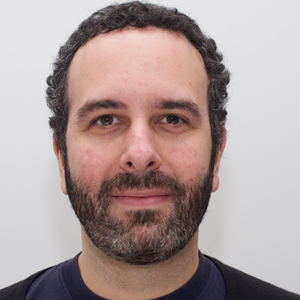
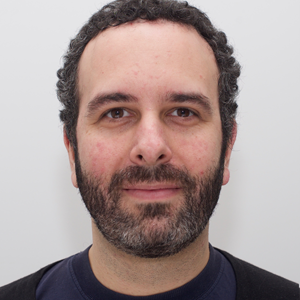
Change photo and bio

diff --git a/index.html b/index.html
@@ -50,10 +50,15 @@
 					<section id="intro" class="wrapper style1 fullscreen fade-up">
 						<div class="inner">
 							<h1>Michael Newton, Web Developer</h1>
-
-							<p>Web developer with a background in visual design. Experienced in JavaScript, React/Redux, Ruby, Rails, HTML5, CSS3, and SQL. I love the logical challenges of coding, and the satisfaction of seeing a great project come together.</p>
-
-							<ul class="actions">
+							<div style="display:flex">
+								<div style="margin-right:18px; margin-top:4px;">
+								<img src="images/Aa-MN-smaller.png" alt="MN" data-position="left top" style="width:100px;border-radius:50%;margin-left:10px; display:inline;"/>
+							</div>
+							<div>
+							<p>Brooklyn-based web developer, experienced in JavaScript, React/Redux, Ruby, Rails, HTML5, CSS3, and SQL. I have a background in visual/graphic design, and I like to approach projects with both core functionality and aesthetic relationships in mind. I'm excited about the vast creative potential of the internet. I love the logical challenges of coding, and the satisfaction of seeing a great project come together.</p>
+						</div>
+							</div>
+							<ul class="actions" style="margin-left:120px;">
 								<li><a href="#one" class="button scrolly">Projects</a></li>
 								<li><a href="assets/docs/MN-Resume-May2017-Aa-pdf.pdf" class="button scrolly" target="_blank">Resume</a></li>
 								<li><a href="mailto:mn@one-timepad.com" class="button scrolly">Email</a></li>
@@ -187,7 +192,7 @@
 					<section id="three" class="wrapper style1 fade-up">
 						<div class="inner">
 							<h2>Contact</h2>
-							<img src="images/Aa-MN-smaller.png" alt="Message" data-position="left top" style="width:100px;border-radius:50%;margin-left:10px"/>
+							<img src="images/Aa-MN-smaller.png" alt="MN" data-position="left top" style="width:100px;border-radius:50%;margin-left:10px"/>
 							<p>I'm currently on the job market. <br/>Get in touch!</p>
 							<ul class="contact">
 								<li>

diff --git a/assets/css/main.css b/assets/css/main.css
@@ -2999,7 +2999,8 @@
 		}
 
 		.wrapper.style1 {
-			background-color: #5e42a6;
+			/*background-color: #5e42a6;*/
+			background-color: #210633;
 		}
 
 		.wrapper.style1-alt {
@@ -3127,7 +3128,8 @@
 		display: -webkit-flex;
 		display: -ms-flex;
 		display: flex;
-		background-color: #5e42a6;
+		/*background-color: #5e42a6;*/
+		background-color: #210633;
 		cursor: default;
 		padding: 1.75em 2em;
 	}
